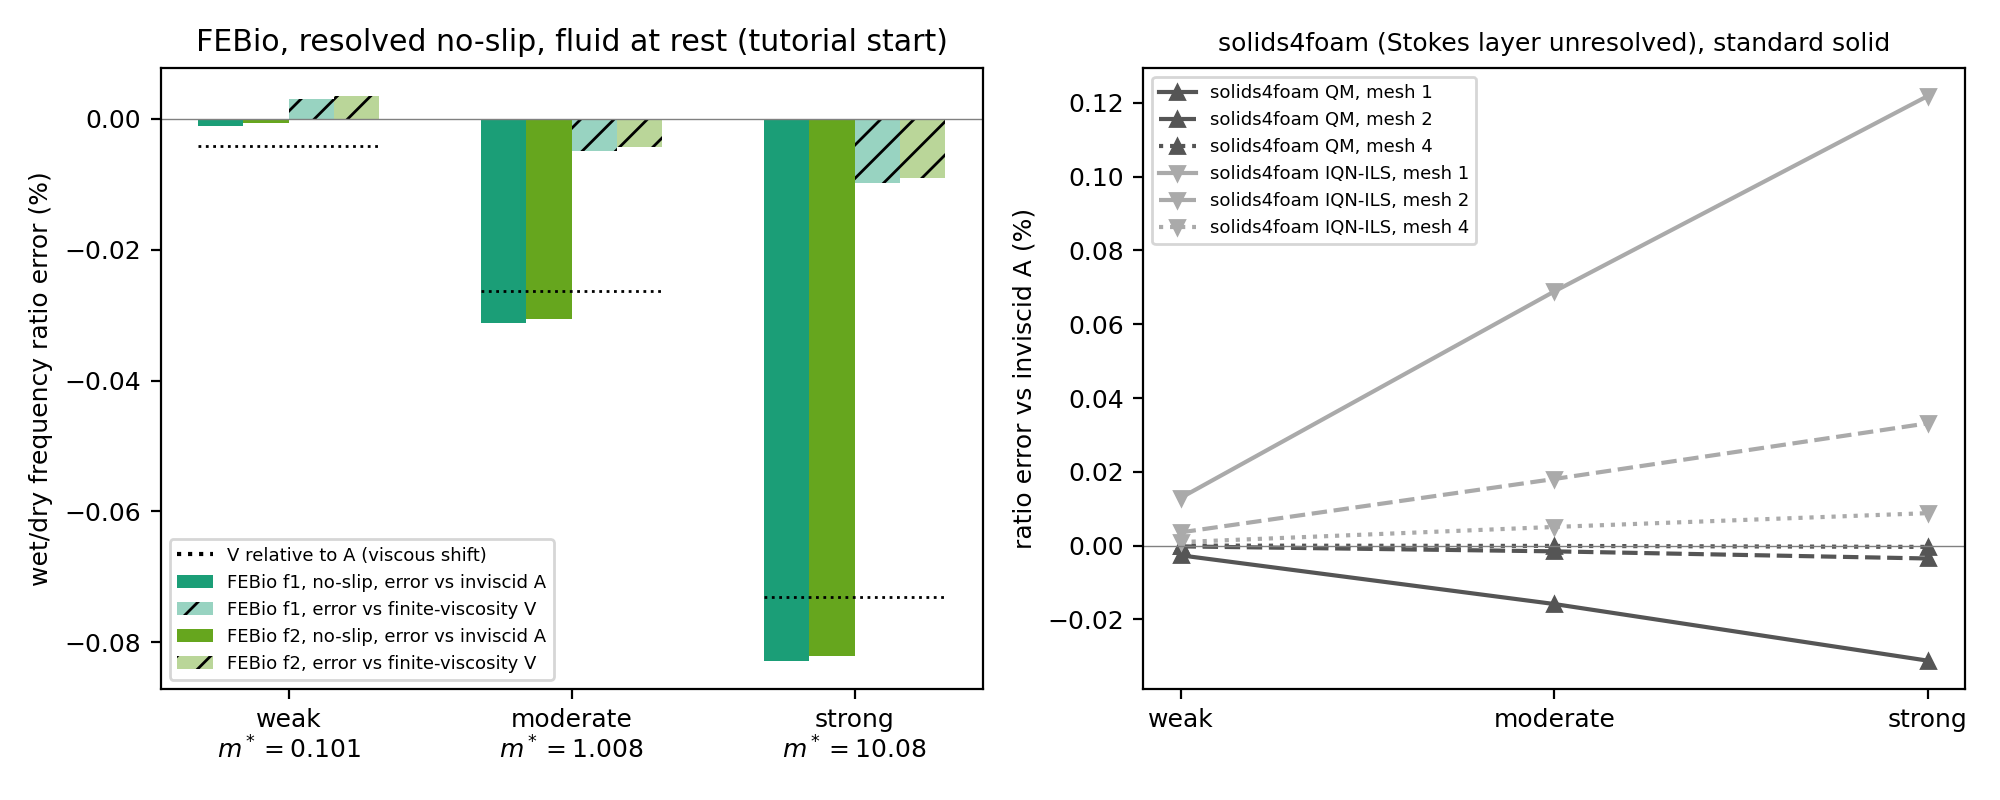
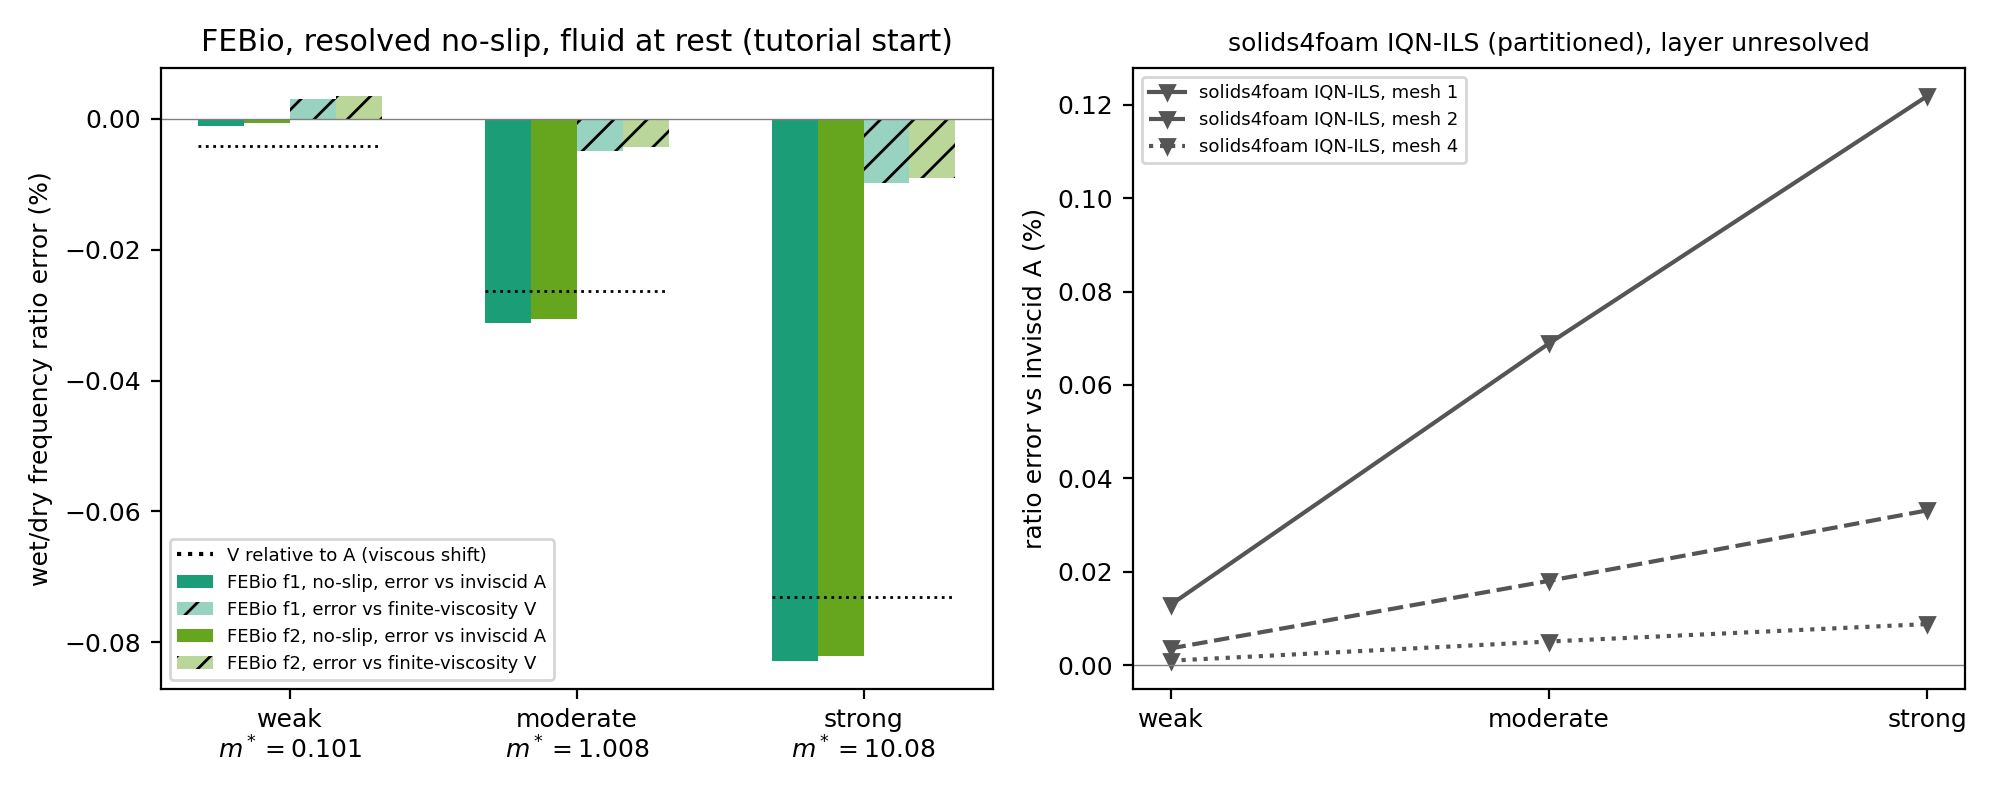
ringAddedMass FEBio: partitioned-only scope, supplementary section, co-author placeholder
- Redraw right panel of ringAddedMass_febio_R1 with solids4foam IQN-ILS only; remove quasi-monolithic data from figure, caption and text; add regeneration script
- Quote IQN-ILS ratio errors and decay in "What the solids4foam data do and do not contain"
- Condense "Resolution of the viscous layers"; move Figures R3, R4 and "Interface mechanics" to a supplementary appendix with a pointer
- Add co-author entry (surname/ORCID placeholders to be confirmed)

diff --git a/sectionBenchmarkSuite.tex b/sectionBenchmarkSuite.tex
@@ -103,45 +103,28 @@ The discretisations differ (linear hexahedra for ring and fluid, mesh motion by 
 In the moderate regime, changing $K$ by a decade in either direction ($10^{7}$ and $10^{9}\,\mathrm{Pa}$) changed the ratio error by $-0.0011$ and $+0.0063$ percentage points, increasing the regulariser stiffness tenfold by $+0.0015$, and halving the amplitude by $-0.0068$ percentage points; none of these removes the differences, and the incompressible limit is bracketed, not reached.
 
 \emph{Resolution of the viscous layers.}
-The Stokes layer, $\delta=\sqrt{2\nu_F/\omega}=2.9\times10^{-4}$, $3.3\times10^{-4}$ and $5.1\times10^{-4}\,\mathrm{m}$ for the weak, moderate and strong levels, is about $10^{-3}$ of the gap and is not resolved by the tutorial mesh at any refinement factor ($\delta/h=0.009$, $0.018$, $0.036$).
-FEBio imposes the no-slip condition as a nodal constraint, which is a much stiffer treatment than a viscous-flux boundary condition; on a uniform fluid mesh of 12 radial cells it gave a wet/dry ratio error of $-6.2\%$ and a discrete energy that swung by $\pm5\%$ over the four periods.
-Controlled refinement of the first fluid cell at both walls (all else fixed: $4\delta$, $\delta$, $\delta/4$, $\delta/16$ for the moderate level, with a potential-flow start) moved the ratio error against the finite-viscosity eigenvalue from $-0.13\%$ to $+0.02$, $+0.001$ and $+0.013\%$ and the fitted decay from an amplitude growth ($-0.47$ times the exact rate at $4\delta$) to $0.56$, $1.02$ and $1.03$ times the exact rate, and removed the net energy creation (about $1.4\%$ of the initial energy over four periods at $4\delta$) found in the unresolved case; neither the time step, the tangential resolution nor the initial fluid velocity changed this behaviour.
-Source inspection found no defect in the enforcement of the no-slip condition or in the traction transfer, so the large error of the uniform mesh is attributed to near-wall resolution, not to the code.
-All production results below use a first cell of $\delta/4$ at both walls, with $\delta$ recomputed for each level.
+The Stokes layer, $\delta=\sqrt{2\nu_F/\omega}=2.9\times10^{-4}$, $3.3\times10^{-4}$ and $5.1\times10^{-4}\,\mathrm{m}$ for the weak, moderate and strong levels, is not resolved by the tutorial mesh at any refinement factor ($\delta/h=0.009$ to $0.036$), and on a uniform fluid mesh of 12 radial cells FEBio's nodal no-slip constraint gave a wet/dry ratio error of $-6.2\%$ against the inviscid ratio.
+Grading the first fluid cell to $\delta/4$ at both walls (the setting of all results below) reduced the error against the finite-viscosity ratio to $+0.001\%$ in the moderate level and removed the net energy creation of the unresolved cases.
+Source inspection found no defect in the enforcement of the no-slip condition or in the traction transfer, so the large error of the uniform mesh is attributed to near-wall resolution, not to the code; the graded-mesh ladder is given in Appendix~\ref{app:ring_febio}.
 
 \emph{Frequency and damping.}
 With the fluid mesh resolved and the fluid starting at rest, the wet/dry ratio agrees with the exact finite-viscosity ratio to better than $0.010\%$ for all three levels, and with the inviscid ratio to $0.0010\%$, $0.031\%$ and $0.083\%$ (weak, moderate, strong), i.e.\ it reproduces the small viscous shift of the reference (Table~\ref{tab:ring_febio}, Figure~\ref{fig:ring_febio_ratio}).
-The fitted amplitude decay rate is $0.974$--$0.998$ of the exact viscous rate for all six runs (Figure~\ref{fig:ring_febio_decay}).
+The fitted amplitude decay rate is $0.974$--$0.998$ of the exact viscous rate for all six runs (Figure~\ref{fig:ring_febio_decay} of Appendix~\ref{app:ring_febio}).
 Halving the time step changed the ratio against the matched, equally refined dry ring by at most $0.0003$ percentage points, and doubling the ring and tangential resolution by at most $0.0007$ (the absolute wet frequency converges at a difference-based order of about two, with the hex8 ring supplying the common error), so these agreements are not limited by temporal or tangential resolution.
 The fluid-at-rest start launches an acoustic transient in the weakly compressible fluid and, because ring and fluid share momentum in the first step, the response amplitude is about $1/(1+m^*)$ of $V_0/\omega$ ($0.89$, $0.49$ and $0.088$ of $V_0/\omega$ against $0.91$, $0.50$ and $0.090$); this is a property of the impulsive start in this problem, which is linear, so frequency and decay rate are unaffected, and a start from the potential-flow field in the strong level gives a ratio error against the finite-viscosity value of $+0.04\%$ and a decay of $1.02$ times the exact rate.
 \begin{figure}[htbp]
 	\centering
 	\includegraphics[width=\textwidth]{figures/verification/ringAddedMass_febio_R1}
-	\caption{ringAddedMass, wet/dry frequency ratio error. Left: FEBio with resolved no-slip layers and the fluid at rest, against the exact inviscid ratio (A) and the exact finite-viscosity ratio (V), at two ring/tangential resolutions (f1, f2); the dotted lines mark V relative to A. Right: solids4foam (Stokes layer unresolved, standard solid, quasi-monolithic (QM) and IQN-ILS coupling), against A, at mesh factors 1, 2 and 4. The two panels show different discretisations of the same continuum problem; they are not matched meshes. Sources: \texttt{paper-data/febio\_ring\_added\_mass/no\_slip\_resolved/} and \texttt{ringAddedMass\_monolithic\_mesh.csv} (PR~\#13).}
+	\caption{ringAddedMass, wet/dry frequency ratio error. Left: FEBio with resolved no-slip layers and the fluid at rest, against the exact inviscid ratio (A) and the exact finite-viscosity ratio (V), at two ring/tangential resolutions (f1, f2); the dotted lines mark V relative to A. Right: solids4foam with IQN-ILS (partitioned) coupling, standard solid, Stokes layer unresolved, against A, at mesh factors 1, 2 and 4. The two panels show different discretisations of the same continuum problem; they are not matched meshes. Sources: \texttt{paper-data/febio\_ring\_added\_mass/no\_slip\_resolved/} (regenerated by \texttt{scripts/ring\_figure\_R1\_partitioned.py}).}
 	\label{fig:ring_febio_ratio}
-\end{figure}
-\begin{figure}[htbp]
-	\centering
-	\includegraphics[width=\textwidth]{figures/verification/ringAddedMass_febio_R3}
-	\caption{ringAddedMass, FEBio displacement histories $D=(u_r(0^\circ)-u_r(90^\circ))/2$ at the f1 resolution with the fluid at rest, normalised by the first peak, for the weak, moderate and strong levels, with the exact viscous envelope $\exp(-\alpha_V t)$. The fitted decay rates are $0.998$, $0.984$ and $0.983$ times $\alpha_V$.}
-	\label{fig:ring_febio_decay}
 \end{figure}
 
 \emph{What the solids4foam data do and do not contain.}
-Because the tutorial mesh does not resolve the Stokes layer, the solids4foam wet/dry ratio errors against the inviscid reference ($-0.016\%$, $-0.0016\%$, $-0.0001\%$ for the quasi-monolithic coupling at mesh factors 1, 2, 4 in the moderate level) lie on the inviscid side of the reference and cannot discriminate the viscous shift ($-0.026\%$ for that level); its fitted amplitude decay at 100 steps per period ($1.2\times10^{-4}\,\mathrm{s^{-1}}$, moderate, factor 2) is a quarter of the viscous rate and falls by a factor of about 7--9 with each halving of the time step, so it is dominated by temporal damping.
-The comparison with FEBio is therefore a comparison of two independent discretisations against the same continuum references at the level of $0.03\%$ in the ratio; the viscous damping and the viscous shift are verified for FEBio only, and a solids4foam verification of these quantities would need a mesh that resolves the layers.
+Because the tutorial mesh does not resolve the Stokes layer, the solids4foam wet/dry ratio errors against the inviscid reference ($+0.069\%$, $+0.018\%$, $+0.0051\%$ for IQN-ILS with the standard solid at mesh factors 1, 2, 4 in the moderate level) are dominated by discretisation error, lie on the opposite side of the inviscid reference from the viscous shift ($-0.026\%$ for that level) and cannot discriminate it; its fitted amplitude decay at 100 steps per period ($2.0\times10^{-3}\,\mathrm{s^{-1}}$, moderate, factor 2) is $4.2$ times the viscous rate and falls by factors of $3.3$ and $1.5$ with each halving of the time step from 25 to 100 steps per period, so it is dominated by temporal and coupling damping.
+The comparison with FEBio is therefore a comparison of two independent discretisations against the same continuum references at the level of $0.04\%$ in the ratio at the finest solids4foam mesh; the viscous damping and the viscous shift are verified for FEBio only, and a solids4foam verification of these quantities would need a mesh that resolves the layers.
 
-\emph{Interface mechanics.}
-The pressure and viscous traction that FEBio's fluid--FSI surface load applies to the ring were reconstructed from logged nodal dilatation and element stress (Figure~\ref{fig:ring_febio_traction}).
-The work of the reconstructed traction equals the ring's kinetic plus strain energy change to $0.02$--$0.09\%$ of the energy swing ($1.9\%$ for the strong level started at rest), which checks the orientation, the area measure and the sign independently of the force magnitude, and the $n=2$ viscous shear amplitude is $0.84$--$0.90$ of the thin-Stokes-layer estimate computed from the logged velocities, with a shear-to-pressure traction ratio of $4\times10^{-4}$ to $8\times10^{-4}$.
-For the strong level started from the potential-flow field, the energy lost by the fluid including the integrated viscous dissipation balances the work on the ring to $0.5\%$ of the ring's energy swing, and the discrete energy balance is closed to $0.3\%$ of the initial energy.
-These are reconstructions and one-element-gradient dissipation estimates, not measured interface forces; the weak level started from the potential-flow field did not converge in its first step and is not reported.
-\begin{figure}[htbp]
-	\centering
-	\includegraphics[width=\textwidth]{figures/verification/ringAddedMass_febio_R4}
-	\caption{ringAddedMass, FEBio interface traction on the ring, reconstructed from logged fields. Left: $n=2$ amplitudes of the pressure traction, the viscous shear traction and the thin-Stokes-layer shear estimate (fluid at rest, and the strong level from the potential-flow field). Right: strong level, potential-flow start, the ring's energy change and the work of the reconstructed traction (the viscous part, multiplied by 50, is dissipative). Source: \texttt{paper-data/febio\_ring\_added\_mass/no\_slip\_resolved/}.}
-	\label{fig:ring_febio_traction}
-\end{figure}
+\emph{Supplementary material.}
+The FEBio displacement histories and the reconstructed interface mechanics are in Appendix~\ref{app:ring_febio} (Figures~\ref{fig:ring_febio_decay} and~\ref{fig:ring_febio_traction}).
 
 \emph{Status.}
 FEBio reproduces the finite-viscosity, no-slip ring problem for the three added-mass levels, with the stated model-form differences (weak compressibility, finite strain, finite amplitude, regulariser) quantified at the $0.01$-percentage-point level in the moderate level; it is a qualified independent comparison rather than a demonstration that the two discretisations produce the same discrete solution.

diff --git a/article.tex b/article.tex
@@ -101,6 +101,8 @@ textheight=24cm, % llncs has 19.3cm
 %%\author[5]{\fnm{Hiroaki} \sur{Nishikawa}}
 %\author[4]{\fnm{\v{Z}eljko} \sur{Tukovi\'{c}}}
 \author[1,2]{\fnm{Ivan} \sur{Batisti\'{c}}}
+% TODO(confirm formal name/ORCID with Sairam): surname and ORCID below are PLACEHOLDERS, not known to the drafter.
+\author[1]{\fnm{Sairam} \sur{[SURNAME-TO-CONFIRM]}}%\orcid{0000-0000-0000-0000}
 \author[1]{Add others}
 
 \affil[1]{\orgdiv{School of Mechanical and Materials Engineering}, \orgname{University College Dublin}, \orgaddress{\country{Ireland}}}
@@ -209,6 +211,36 @@ Additionally, the authors wish to acknowledge the DJEI/DES/SFI/HEA Irish Centre 
 \section{WIP}
 \label{app:WIP}
 %%%%%%%%%%%%%%%%%%%%%%%%%%%%%%%%%%%%%%%%%%%%%%%%%%%%%%%%%%%%%%%%%%
+
+
+
+%%%%%%%%%%%%%%%%%%%%%%%%%%%%%%%%%%%%%%%%%%%%%%%%%%%%%%%%%%%%%%%%%%
+\section{Supplementary material: FEBio comparison for the ring added-mass problem}
+\label{app:ring_febio}
+%%%%%%%%%%%%%%%%%%%%%%%%%%%%%%%%%%%%%%%%%%%%%%%%%%%%%%%%%%%%%%%%%%
+This appendix gives the supporting detail for the independent FEBio comparison of Section~\ref{sec:ring} (Table~\ref{tab:ring_febio}, Figure~\ref{fig:ring_febio_ratio}).
+
+\emph{Graded-mesh ladder.}
+Controlled refinement of the first fluid cell at both walls (all else fixed: $4\delta$, $\delta$, $\delta/4$, $\delta/16$ for the moderate level, with a potential-flow start) moved the ratio error against the finite-viscosity eigenvalue from $-0.13\%$ to $+0.02$, $+0.001$ and $+0.013\%$ and the fitted decay from an amplitude growth ($-0.47$ times the exact rate at $4\delta$) to $0.56$, $1.02$ and $1.03$ times the exact rate, and removed the net energy creation (about $1.4\%$ of the initial energy over four periods at $4\delta$) found in the unresolved case; neither the time step, the tangential resolution nor the initial fluid velocity changed this behaviour.
+
+\begin{figure}[htbp]
+	\centering
+	\includegraphics[width=\textwidth]{figures/verification/ringAddedMass_febio_R3}
+	\caption{ringAddedMass, FEBio displacement histories $D=(u_r(0^\circ)-u_r(90^\circ))/2$ at the f1 resolution with the fluid at rest, normalised by the first peak, for the weak, moderate and strong levels, with the exact viscous envelope $\exp(-\alpha_V t)$. The fitted decay rates are $0.998$, $0.984$ and $0.983$ times $\alpha_V$.}
+	\label{fig:ring_febio_decay}
+\end{figure}
+
+\emph{Interface mechanics.}
+The pressure and viscous traction that FEBio's fluid--FSI surface load applies to the ring were reconstructed from logged nodal dilatation and element stress (Figure~\ref{fig:ring_febio_traction}).
+The work of the reconstructed traction equals the ring's kinetic plus strain energy change to $0.02$--$0.09\%$ of the energy swing ($1.9\%$ for the strong level started at rest), which checks the orientation, the area measure and the sign independently of the force magnitude, and the $n=2$ viscous shear amplitude is $0.84$--$0.90$ of the thin-Stokes-layer estimate computed from the logged velocities, with a shear-to-pressure traction ratio of $4\times10^{-4}$ to $8\times10^{-4}$.
+For the strong level started from the potential-flow field, the energy lost by the fluid including the integrated viscous dissipation balances the work on the ring to $0.5\%$ of the ring's energy swing, and the discrete energy balance is closed to $0.3\%$ of the initial energy.
+These are reconstructions and one-element-gradient dissipation estimates, not measured interface forces; the weak level started from the potential-flow field did not converge in its first step and is not reported.
+\begin{figure}[htbp]
+	\centering
+	\includegraphics[width=\textwidth]{figures/verification/ringAddedMass_febio_R4}
+	\caption{ringAddedMass, FEBio interface traction on the ring, reconstructed from logged fields. Left: $n=2$ amplitudes of the pressure traction, the viscous shear traction and the thin-Stokes-layer shear estimate (fluid at rest, and the strong level from the potential-flow field). Right: strong level, potential-flow start, the ring's energy change and the work of the reconstructed traction (the viscous part, multiplied by 50, is dissipative). Source: \texttt{paper-data/febio\_ring\_added\_mass/no\_slip\_resolved/}.}
+	\label{fig:ring_febio_traction}
+\end{figure}
 
 
 

diff --git a/paper-data/febio_ring_added_mass/no_slip_resolved/scripts/ring_figure_R1_partitioned.py b/paper-data/febio_ring_added_mass/no_slip_resolved/scripts/ring_figure_R1_partitioned.py
@@ -1,0 +1,58 @@
+#!/usr/bin/env python3
+"""Figure ringAddedMass_febio_R1 (partitioned-only version) from stored results only.
+
+Left : FEBio no-slip wet/dry frequency-ratio errors vs A (inviscid) and V (finite viscosity),
+       read from results/ring_final_table.json.
+Right: solids4foam IQN-ILS (partitioned) ratio errors vs A at mesh factors 1, 2, 4, read from
+       reference/ringAddedMass_monolithic_mesh_ff150e4.csv (rows wet_*_iqnils_*; the
+       quasi-monolithic rows in the same file are deliberately NOT used).
+
+Expects the PR #26 package layout (this file in <pkg>/scripts/, <pkg>/results/, <pkg>/reference/) and the
+parent package's reference/s4f_ringAddedMass/... JSON. No simulation is run.
+Usage: python3 -I ring_figure_R1_partitioned.py [output.png]
+Default output: <repository root>/figures/verification/ringAddedMass_febio_R1.png
+"""
+import csv, json, math, os, sys
+import numpy as np
+import matplotlib
+matplotlib.use("Agg")
+import matplotlib.pyplot as plt
+
+PKG = os.path.dirname(os.path.dirname(os.path.abspath(__file__))) + "/"
+PARENT = os.path.dirname(PKG.rstrip("/")) + "/"
+REPO = os.path.dirname(os.path.dirname(PARENT.rstrip("/"))) + "/"
+OUT = sys.argv[1] if len(sys.argv) > 1 else REPO + "figures/verification/ringAddedMass_febio_R1.png"
+J = json.load(open(PARENT + "reference/s4f_ringAddedMass/verification/reference/ringAddedMass_verification_references.json"))["exact"]["levels"]
+LV = ["weak", "moderate", "strong"]
+tab = {r["id"]: r for r in json.load(open(PKG + "results/ring_final_table.json"))}
+
+s4f = {}
+for x in csv.DictReader(open(PKG + "reference/ringAddedMass_monolithic_mesh_ff150e4.csv")):
+    n = x["name"]
+    if n.startswith("wet_") and "iqnils" in n:
+        s4f.setdefault(n.split("_")[1], {})[int(x["factor"])] = 100 * float(x["ratio_error"])  # fraction -> %
+for l in LV:
+    assert sorted(s4f[l]) == [1, 2, 4], l
+
+plt.rcParams.update({"font.size": 9})
+fig, ax = plt.subplots(1, 2, figsize=(10, 4))
+x = np.arange(3); w = 0.16
+for k, (rid, lab, col) in enumerate([("1", "FEBio f1", "#1b9e77"), ("2", "FEBio f2", "#66a61e")]):
+    ax[0].bar(x + (k - 1.5) * w, [tab[f"P{l[0]}{rid}"]["errA_pct"] for l in LV], w, color=col, label=lab + ", no-slip, error vs inviscid A")
+    ax[0].bar(x + (k + 0.5) * w, [tab[f"P{l[0]}{rid}"]["errV_pct"] for l in LV], w, color=col, alpha=0.45, hatch="//", label=lab + ", error vs finite-viscosity V")
+for i, l in enumerate(LV):
+    v = J[l]
+    ax[0].plot([i - 2 * w, i + 2 * w], [100 * v["viscousFrequencyShift"]] * 2, "k:", lw=1)  # V relative to A
+ax[0].plot([], [], "k:", label="V relative to A (viscous shift)")
+ax[0].set_xticks(x); ax[0].set_xticklabels(["weak\n$m^*=0.101$", "moderate\n$m^*=1.008$", "strong\n$m^*=10.08$"]); ax[0].axhline(0, color="gray", lw=0.5)
+ax[0].set_ylabel("wet/dry frequency ratio error (%)"); ax[0].legend(fontsize=6.5, loc="lower left")
+ax[0].set_title("FEBio, resolved no-slip, fluid at rest (tutorial start)")
+for fac, ls in ((1, "-"), (2, "--"), (4, ":")):
+    ax[1].plot(x, [s4f[l][fac] for l in LV], "v" + ls, color="#555555", ms=5, label=f"solids4foam IQN-ILS, mesh {fac}")
+ax[1].set_xticks(x); ax[1].set_xticklabels(["weak", "moderate", "strong"]); ax[1].axhline(0, color="gray", lw=0.5)
+ax[1].set_ylabel("ratio error vs inviscid A (%)")
+ax[1].set_title("solids4foam IQN-ILS (partitioned), layer unresolved", fontsize=9)
+ax[1].legend(fontsize=6.5)
+fig.tight_layout(); os.makedirs(os.path.dirname(OUT), exist_ok=True); fig.savefig(OUT, dpi=200); plt.close(fig)
+print("wrote", OUT)
+for l in LV: print(l, {f: round(v, 5) for f, v in sorted(s4f[l].items())})
